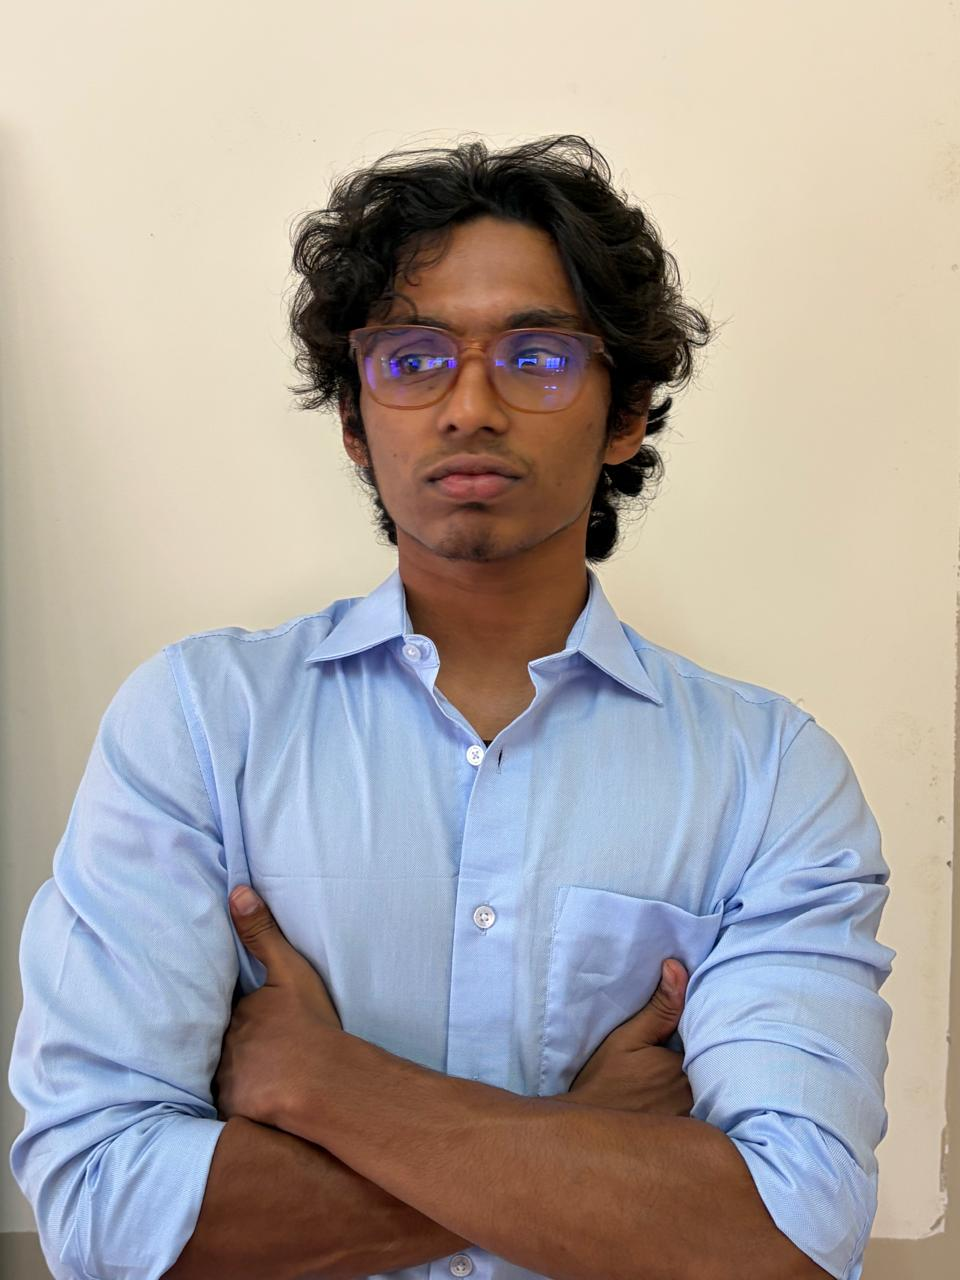
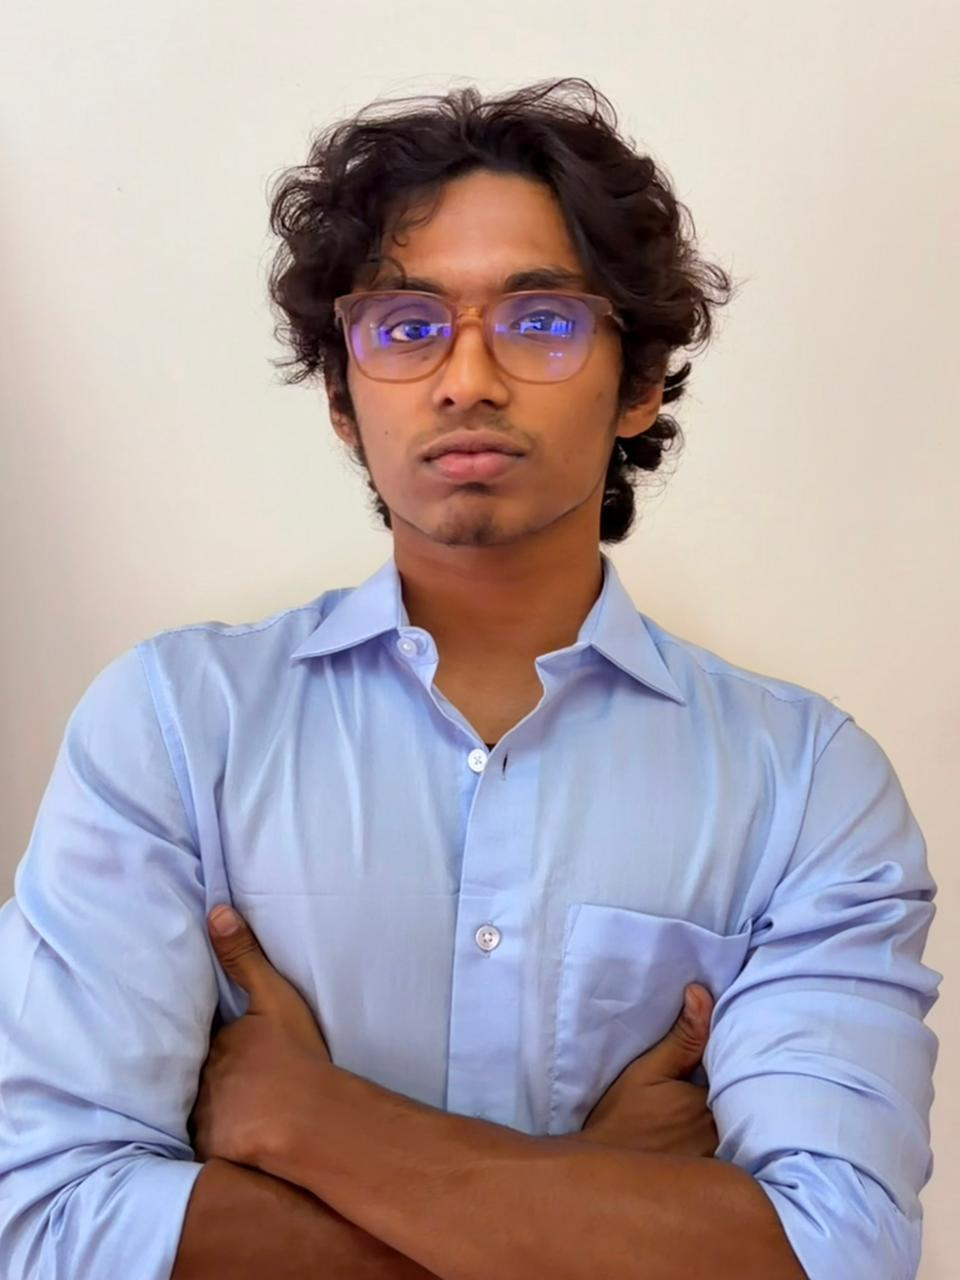
minor changes

diff --git a/src/lib/teamMembers.js b/src/lib/teamMembers.js
@@ -2,15 +2,15 @@
 export const FACULTY_DATA = [
   {
     "name": "Dr N Samanvita",
-    "role": "Faculty",
-    "code": "FA-02",
+    "role": "Head Of Department",
+    "code": "FA-01",
     "photo": "/team-photos/fa_02.jpg",
     "photoUrl": "/team-photos/fa_02.jpg"
   },
   {
     "name": "Dr Lakshmanan M",
     "role": "Faculty",
-    "code": "FA-01",
+    "code": "FA-02",
     "photo": "/team-photos/fa_01.jpg",
     "photoUrl": "/team-photos/fa_01.jpg"
   },
@@ -72,60 +72,60 @@ export const DOMAINS_DATA = [
         "photoUrl": "/team-photos/tc_01.png"
       },
       {
+        "name": "Jadyn",
+        "role": "Lead",
+        "code": "TC-02",
+        "photo": "/team-photos/tc_09.jpg",
+        "photoUrl": "/team-photos/tc_09.jpg"
+      },
+      {
         "name": "Janvika Malapati",
         "role": "Member",
-        "code": "TC-02",
+        "code": "TC-03",
         "photo": "/team-photos/tc_02.jpg",
         "photoUrl": "/team-photos/tc_02.jpg"
       },
       {
         "name": "Prisha Ruturaj C",
         "role": "Member",
-        "code": "TC-03",
+        "code": "TC-04",
         "photo": "/team-photos/tc_03.jpg",
         "photoUrl": "/team-photos/tc_03.jpg"
       },
       {
         "name": "Vemala Prajwal",
         "role": "Member",
-        "code": "TC-04",
+        "code": "TC-05",
         "photo": "/team-photos/tc_04.png",
         "photoUrl": "/team-photos/tc_04.png"
       },
       {
         "name": "Haripriya Katabathina",
         "role": "Member",
-        "code": "TC-05",
+        "code": "TC-06",
         "photo": "/team-photos/tc_05.jpg",
         "photoUrl": "/team-photos/tc_05.jpg"
       },
       {
         "name": "Hiranmayi",
         "role": "Member",
-        "code": "TC-06",
+        "code": "TC-07",
         "photo": "/team-photos/tc_06.jpg",
         "photoUrl": "/team-photos/tc_06.jpg"
       },
       {
         "name": "Pranav Rohan",
         "role": "Member",
-        "code": "TC-07",
+        "code": "TC-08",
         "photo": "/team-photos/tc_07.png",
         "photoUrl": "/team-photos/tc_07.png"
       },
       {
         "name": "Farhan Akhtar",
         "role": "Member",
-        "code": "TC-08",
+        "code": "TC-09",
         "photo": "/team-photos/tc_08.jpg",
         "photoUrl": "/team-photos/tc_08.jpg"
-      },
-      {
-        "name": "Jadyn",
-        "role": "Member",
-        "code": "TC-09",
-        "photo": "/team-photos/tc_09.jpg",
-        "photoUrl": "/team-photos/tc_09.jpg"
       },
       {
         "name": "Arnav Raj Karn",
@@ -151,16 +151,23 @@ export const DOMAINS_DATA = [
         "photoUrl": "/team-photos/ad_01.jpg"
       },
       {
-        "name": "Rifa Anjum",
+        "name": "Raksha P",
         "role": "Member",
         "code": "AD-02",
+        "photo": "/team-photos/ad_08.jpg",
+        "photoUrl": "/team-photos/ad_08.jpg"
+      },
+      {
+        "name": "Rifa Anjum",
+        "role": "Member",
+        "code": "AD-03",
         "photo": "/team-photos/ad_02.jpg",
         "photoUrl": "/team-photos/ad_02.jpg"
       },
       {
         "name": "LD Sai Charan",
         "role": "Member",
-        "code": "AD-03",
+        "code": "AD-04",
         "imagePosition": "50% 18%",
         "photo": "/team-photos/ad_03.jpg",
         "photoUrl": "/team-photos/ad_03.jpg"
@@ -168,38 +175,32 @@ export const DOMAINS_DATA = [
       {
         "name": "Abhianv Deo",
         "role": "Member",
-        "code": "AD-04",
+        "code": "AD-05",
         "photo": "/team-photos/ad_04.jpeg",
         "photoUrl": "/team-photos/ad_04.jpeg"
       },
       {
         "name": "Karthik S Rao",
         "role": "Member",
-        "code": "AD-05",
+        "code": "AD-06",
         "photo": "/team-photos/ad_05.jpg",
         "photoUrl": "/team-photos/ad_05.jpg"
       },
       {
         "name": "Keerthana Bhat",
         "role": "Member",
-        "code": "AD-06",
+        "code": "AD-07",
         "photo": "/team-photos/ad_06.jpg",
         "photoUrl": "/team-photos/ad_06.jpg"
       },
       {
         "name": "D Ganesh",
         "role": "Member",
-        "code": "AD-07",
+        "code": "AD-08",
         "photo": "/team-photos/ad_07.jpg",
         "photoUrl": "/team-photos/ad_07.jpg"
       },
-      {
-        "name": "Raksha P",
-        "role": "Member",
-        "code": "AD-08",
-        "photo": "/team-photos/ad_08.jpg",
-        "photoUrl": "/team-photos/ad_08.jpg"
-      }
+
     ]
   },
   {
@@ -225,54 +226,55 @@ export const DOMAINS_DATA = [
         "photoUrl": "/team-photos/ds_02.jpg"
       },
       {
+        "name": "Kulsum",
+        "role": "Lead",
+        "code": "DS-03",
+        "photo": "/team-photos/ds_09.jpg",
+        "photoUrl": "/team-photos/ds_09.jpg"
+      },
+      {
         "name": "Melisha Dsouza",
         "role": "Member",
-        "code": "DS-03",
+        "code": "DS-04",
         "photo": "/team-photos/ds_03.jpg",
         "photoUrl": "/team-photos/ds_03.jpg"
       },
       {
         "name": "Anupriya Kumari",
         "role": "Member",
-        "code": "DS-04",
+        "code": "DS-05",
         "photo": "/team-photos/ds_04.jpg",
         "photoUrl": "/team-photos/ds_04.jpg"
       },
       {
         "name": "Swasti Jain",
         "role": "Member",
-        "code": "DS-05",
+        "code": "DS-06",
         "photo": "/team-photos/ds_05.jpg",
         "photoUrl": "/team-photos/ds_05.jpg"
       },
       {
         "name": "Shanmukhi Vytlaa",
         "role": "Member",
-        "code": "DS-06",
+        "code": "DS-07",
         "photo": "/team-photos/ds_06.jpg",
         "photoUrl": "/team-photos/ds_06.jpg"
       },
       {
         "name": "Dheshna M",
         "role": "Member",
-        "code": "DS-07",
+        "code": "DS-08",
         "photo": "/team-photos/ds_07.jpeg",
         "photoUrl": "/team-photos/ds_07.jpeg"
       },
       {
         "name": "Adhya",
         "role": "Member",
-        "code": "DS-08",
+        "code": "DS-09",
         "photo": "/team-photos/ds_08.jpg",
         "photoUrl": "/team-photos/ds_08.jpg"
       },
-      {
-        "name": "Kulsum",
-        "role": "Member",
-        "code": "DS-09",
-        "photo": "/team-photos/ds_09.jpg",
-        "photoUrl": "/team-photos/ds_09.jpg"
-      },
+
       {
         "name": "Arpita Thakur",
         "role": "Member",

diff --git a/src/components/MembersSection.jsx b/src/components/MembersSection.jsx
@@ -37,14 +37,15 @@ export const DOMAINS_DATA = Array.isArray(GENERATED_DOMAINS_DATA) && GENERATED_D
     tagline: "Architecture, Systems & Quantum Computing",
     members: [
       { name: "Syed Maaz", role: "Head", photo: null, photoUrl: null, code: "TC-01", isHead: true },
-      { name: "Janvika Malapati", role: "Member", photo: null, photoUrl: null, code: "TC-02" },
+      { name: "Jadyn", role: "Member", photo: null, photoUrl: null, code: "TC-02" },
       { name: "Prisha Ruturaj C", role: "Member", photo: null, photoUrl: null, code: "TC-03" },
       { name: "Vemala Prajwal", role: "Member", photo: null, photoUrl: null, code: "TC-04" },
       { name: "Haripriya Katabathina", role: "Member", photo: null, photoUrl: null, code: "TC-05" },
       { name: "Hiranmayi", role: "Member", photo: null, photoUrl: null, code: "TC-06" },
       { name: "Pranav Rohan", role: "Member", photo: null, photoUrl: null, code: "TC-07" },
       { name: "Farhan Akhtar", role: "Member", photo: null, photoUrl: null, code: "TC-08" },
-      { name: "Jadyn", role: "Member", photo: null, photoUrl: null, code: "TC-09" },
+      
+      { name: "Janvika Malapati", role: "Member", photo: null, photoUrl: null, code: "TC-02" },
       { name: "Arnav Raj Karn", role: "Member", photo: null, photoUrl: null, code: "TC-10" },
     ],
   },

diff --git a/src/app/prizes/page.js b/src/app/prizes/page.js
@@ -318,7 +318,7 @@ export default function PrizesPage() {
                 </svg>
               </div>
               <div className={styles.innovationContent}>
-                <h4 className={styles.innovationTitle}>Innovation Award</h4>
+                <h4 className={styles.innovationTitle}>Innovative Award</h4>
                 <p className={styles.innovationDesc}>Best original idea across any track — voted by judges</p>
               </div>
               <div className={styles.innovationAmount}>
@@ -400,7 +400,7 @@ export default function PrizesPage() {
               Memberships are awarded per team member · courtesy of <strong>CodeCrafters</strong>
             </p>
             <p className={styles.benefitsNote}>
-              Organizers receive 3-month VIP membership · up to five core team members
+              
             </p>
           </div>
         </div>

diff --git a/src/app/timeline/page.js b/src/app/timeline/page.js
@@ -62,10 +62,10 @@ function TimelineCard({ event, isEven, index }) {
 
 export default function TimelinePage() {
   const events = [
-    { stage: "STAGE 01", title: "Registration", date: "September 7 – 28", active: true },
-    { stage: "STAGE 02", title: "Phase 1", date: "September 7 – 28", active: false },
+    { stage: "STAGE 01", title: "Registration Starts", date: "September 7", active: true },
+    { stage: "STAGE 02", title: "Phase 1 (PPT Submission)", date: "September 7 – 28", active: false },
     { stage: "STAGE 03", title: "Phase 1 Results", date: "October 3", active: false },
-    { stage: "STAGE 04", title: "Phase 2", date: "October 28 – 30", active: false },
+    { stage: "STAGE 04", title: "Phase 2 (@NMIT)", date: "October 28 – 30", active: false },
     { stage: "STAGE 05", title: "Final Results", date: "October 30", active: false },
   ];
 

diff --git a/src/app/about/page.js b/src/app/about/page.js
@@ -921,7 +921,7 @@ export default function AboutPage() {
                           <div ref={cubeContainerRef} className="relative overflow-hidden rounded-2xl border border-white/10 bg-[#08080C] p-2 shadow-2xl">
                             <div className="absolute left-3 top-3 z-20 flex items-center gap-2 rounded-full border border-white/10 bg-black/60 px-2.5 py-1 font-mono text-[10px] text-slate-300 backdrop-blur-md">
                               <span className="h-1.5 w-1.5 animate-pulse rounded-full bg-[#F5590A]" />
-                              <span>QUANTUM SIMULATOR</span>
+                              <span>DARE TO CLICK</span>
                             </div>
                             <div className="h-[220px] w-full sm:h-[280px]">
                               {isCubeInView ? <QuantumCubeScene /> : <div className="h-full w-full bg-[#08080C]" />}

diff --git a/src/app/faq/page.js b/src/app/faq/page.js
@@ -26,7 +26,7 @@ export default function FAQPage() {
     {
       question: "When is the hackathon scheduled?",
       answer:
-        "Quant-A-Maze 3.0 is scheduled for September 7-8, 2026. The event runs for 36 hours continuously, providing participants with ample time to develop and refine their solutions.",
+        "Quant-A-Maze 3.0 is scheduled for October 28-30, 2026. The event runs for 36 hours continuously, providing participants with ample time to develop and refine their solutions.",
     },
     {
       question: "What should I bring to the hackathon?",
